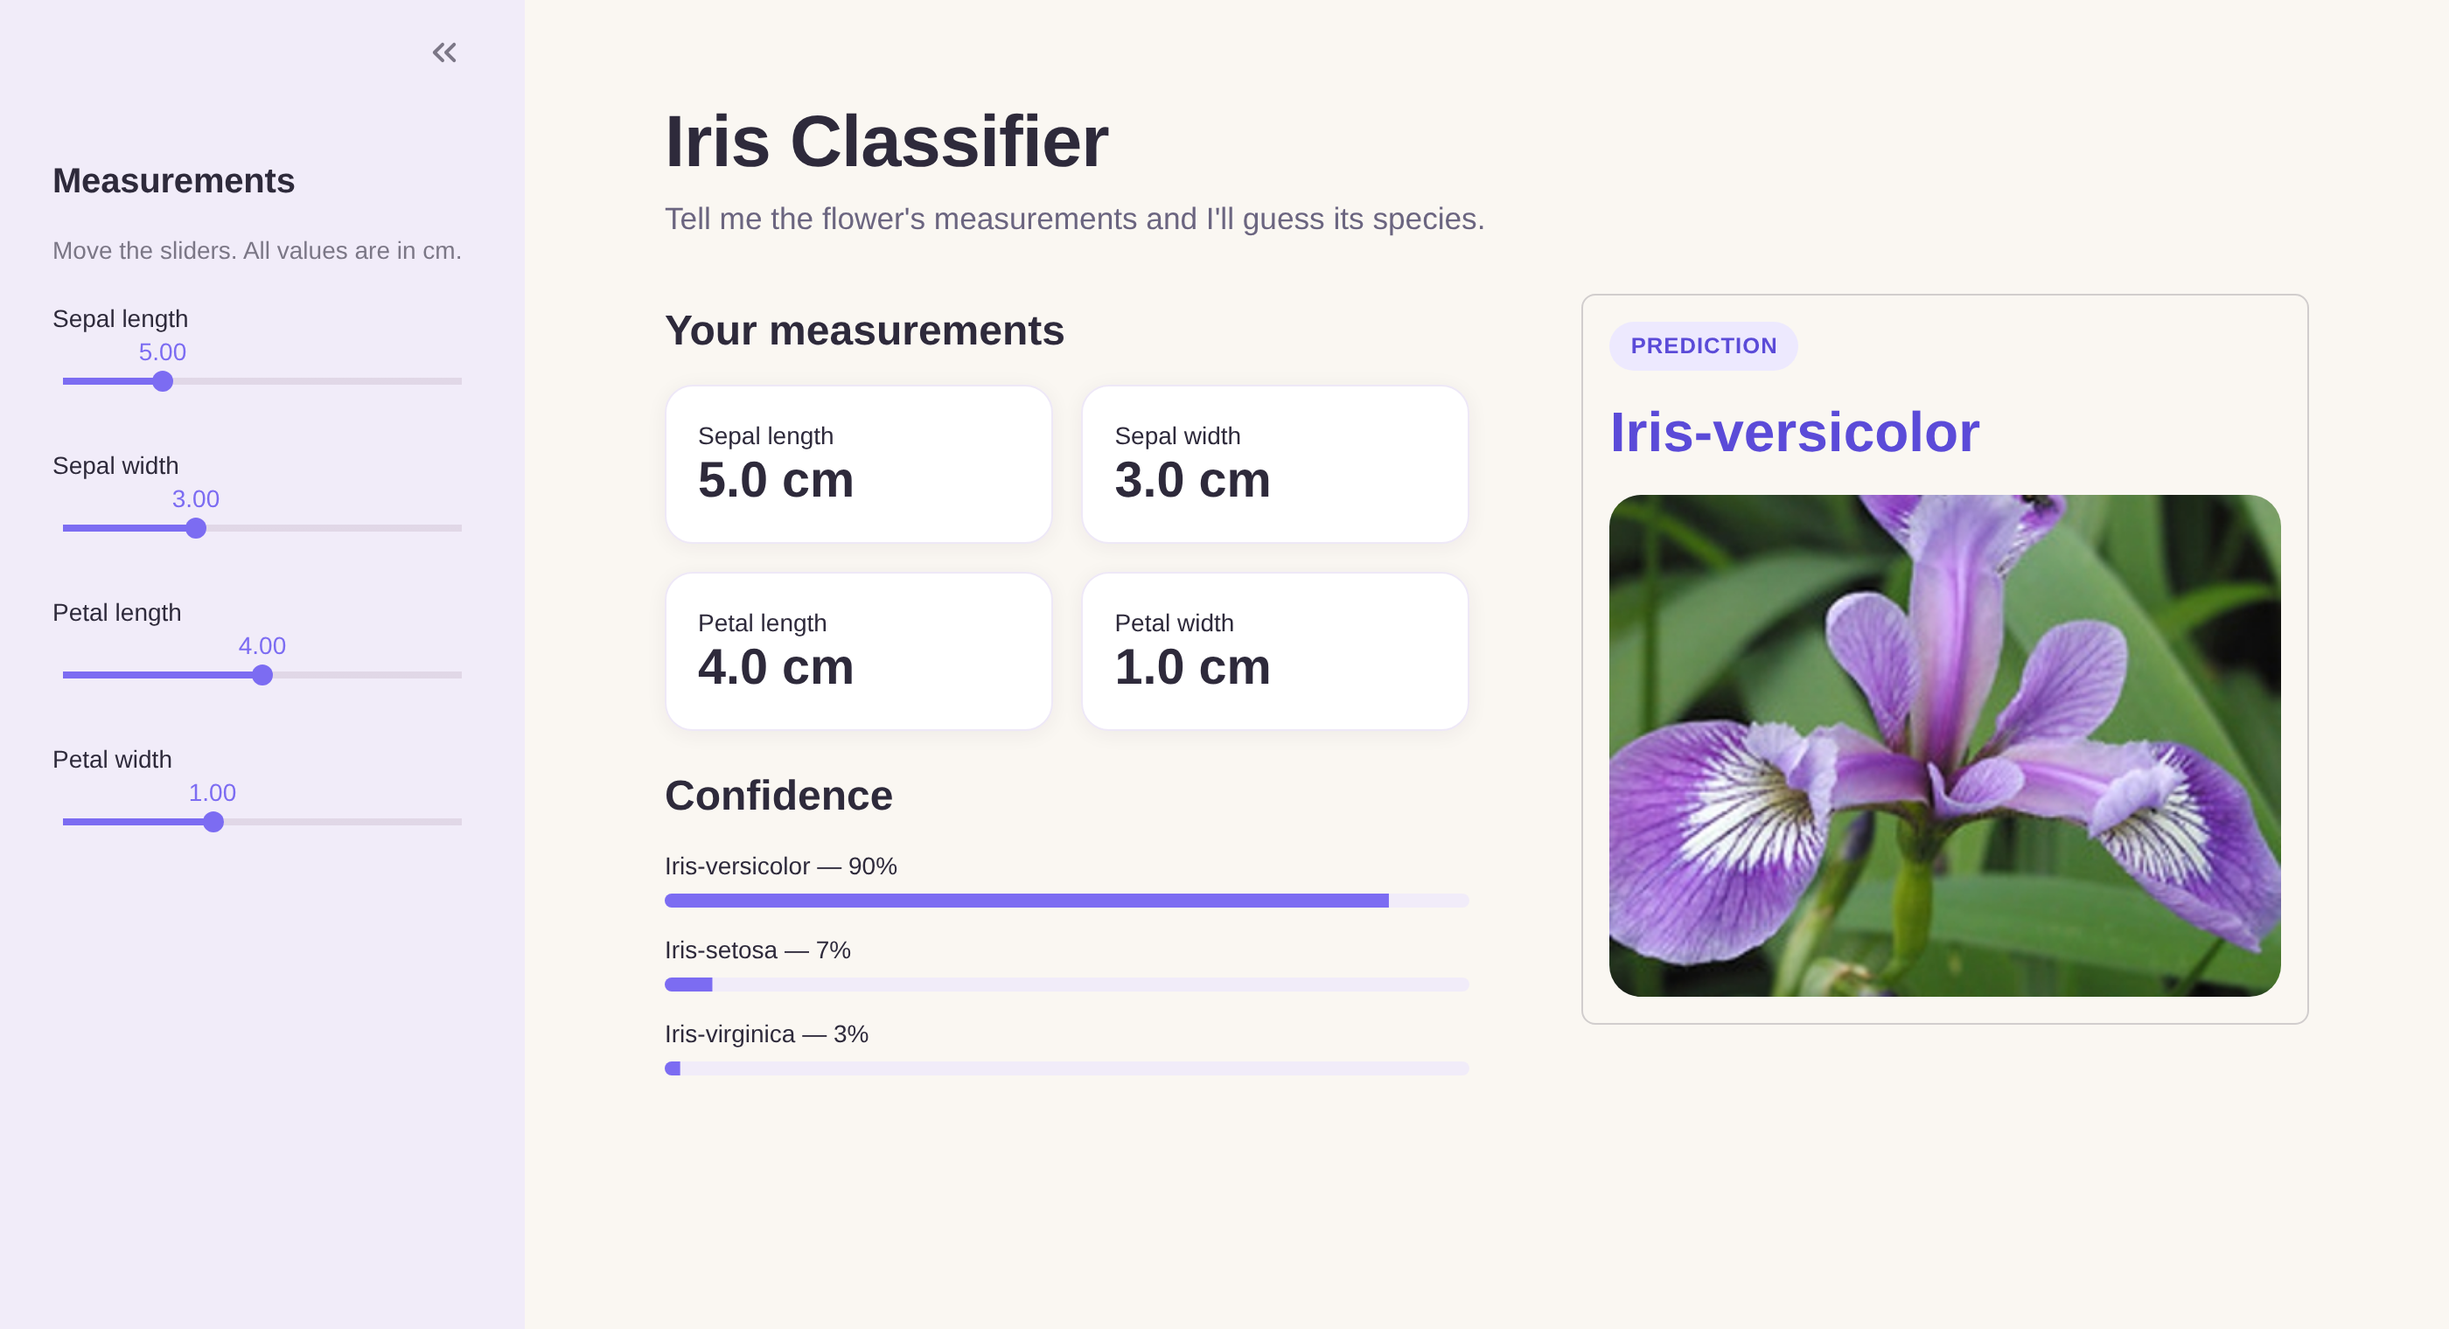
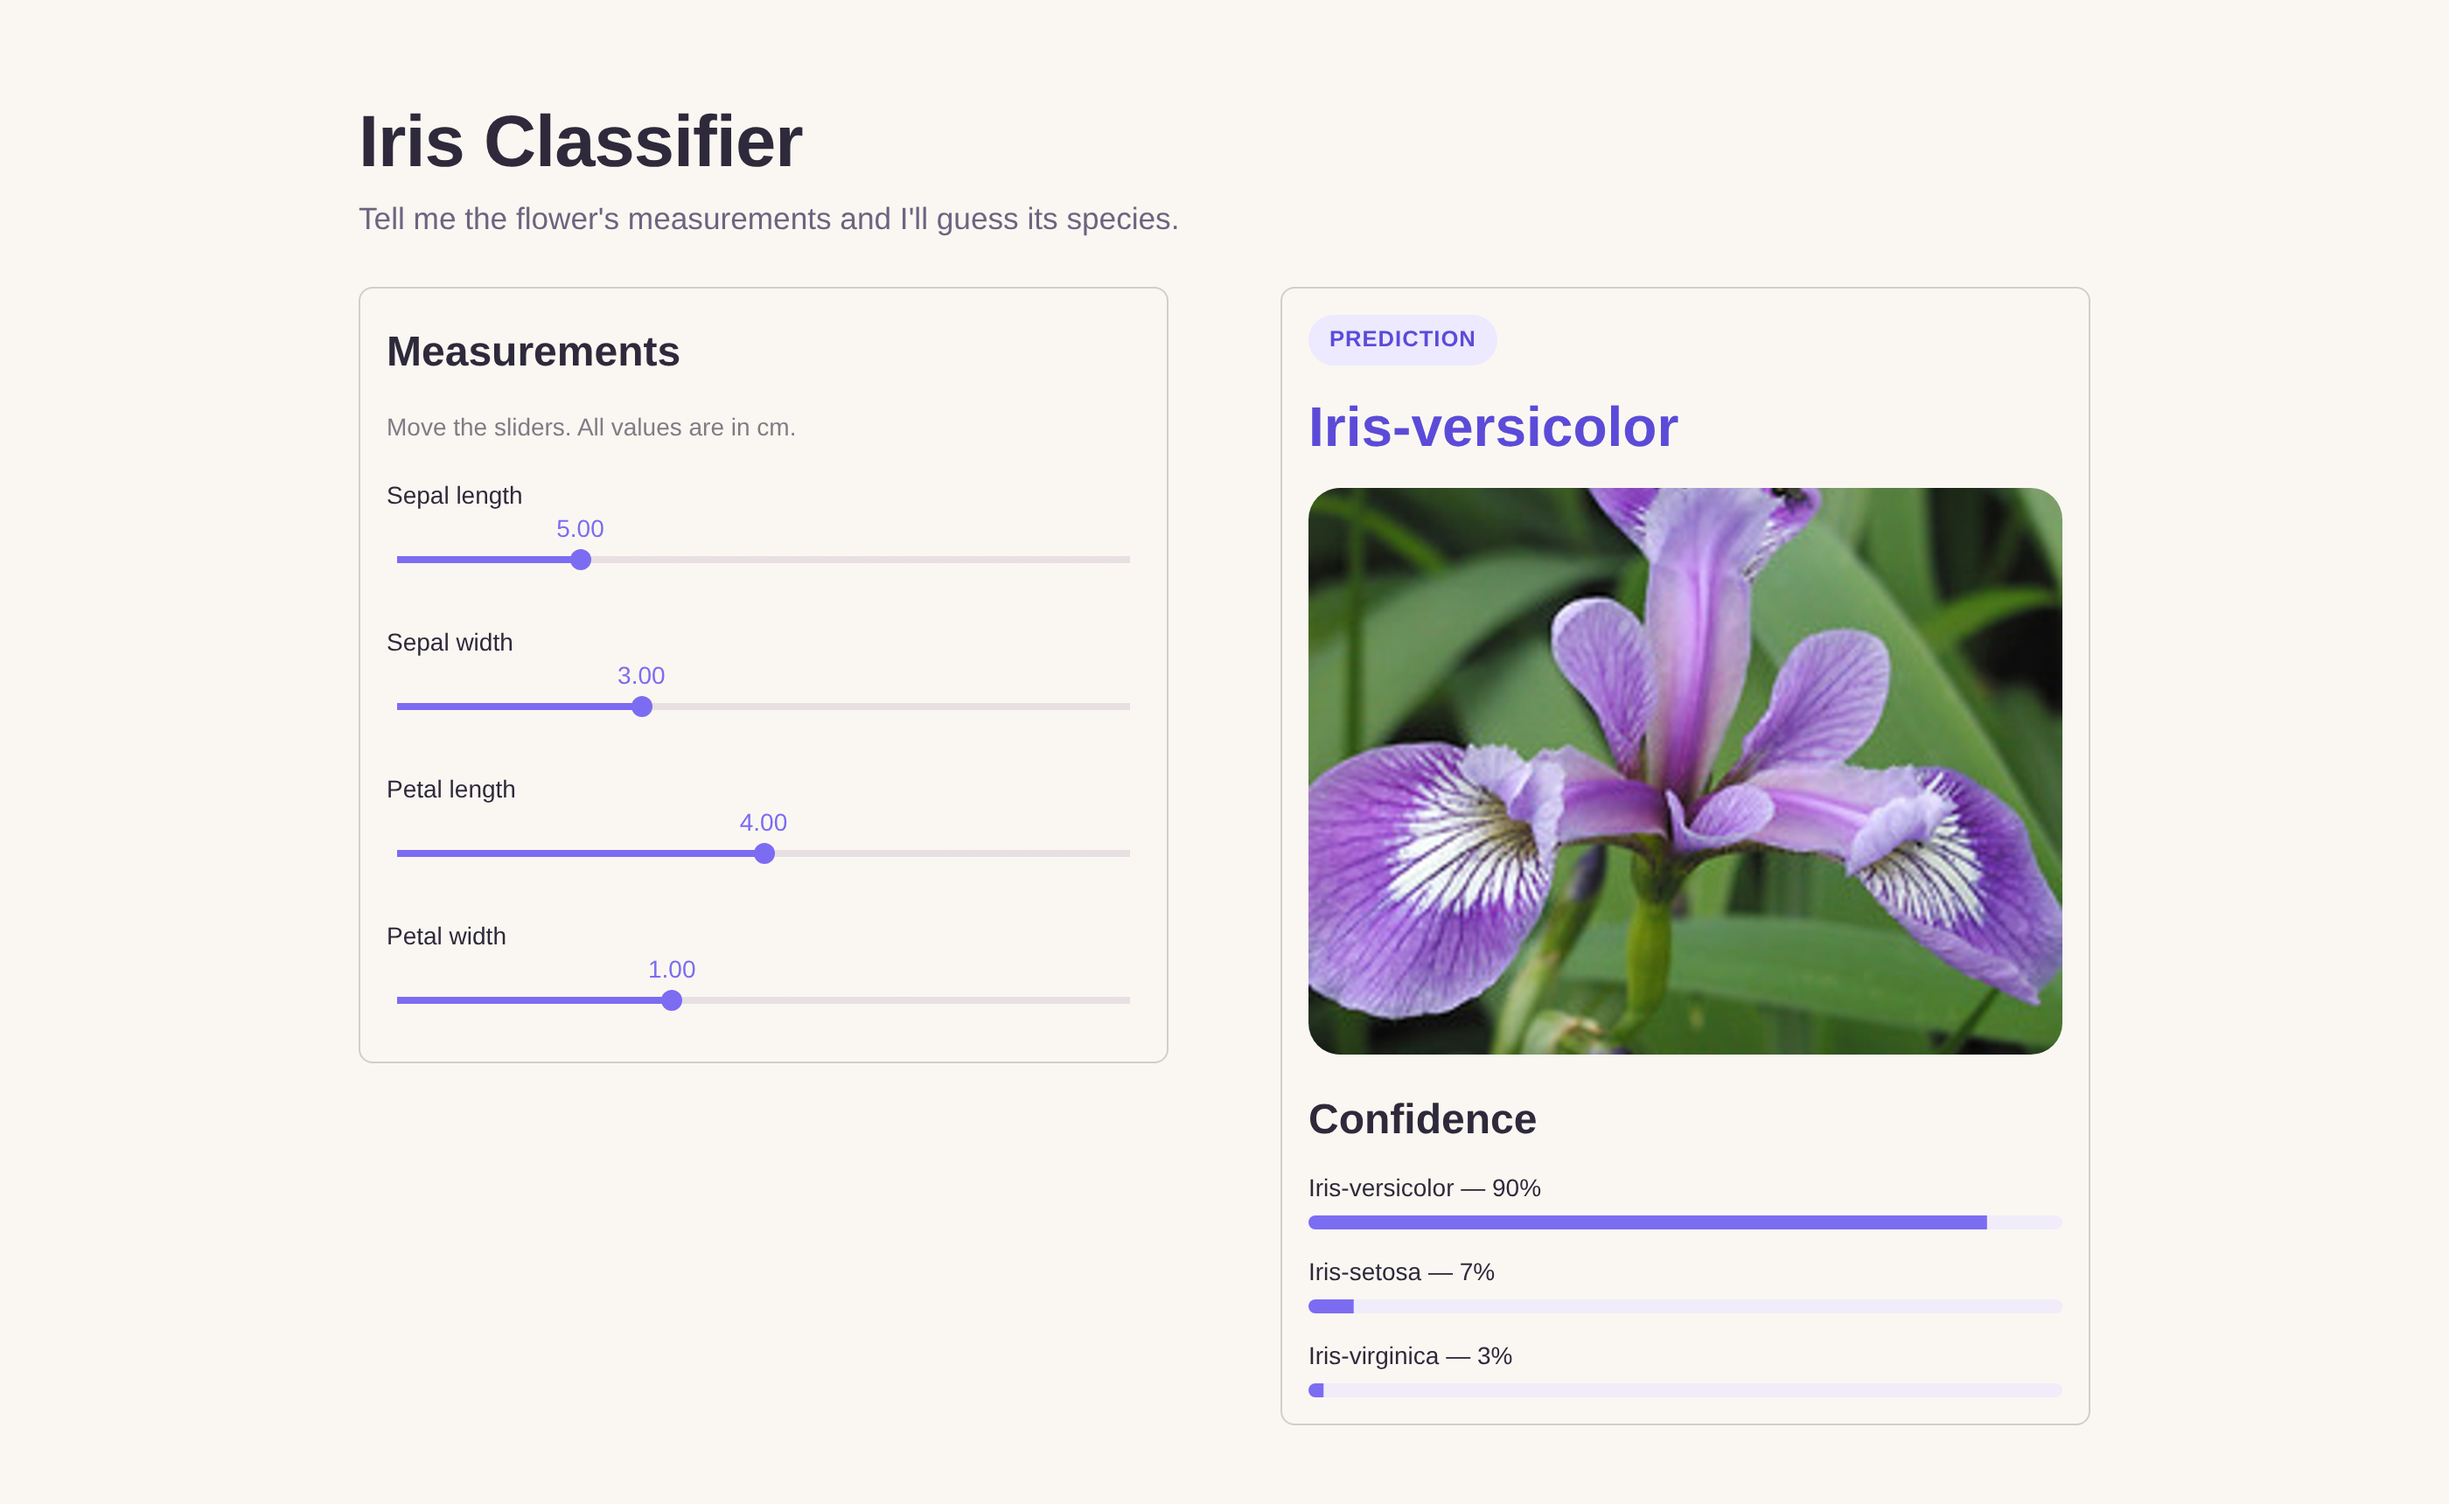
fix: move inputs out of sidebar so they work on mobile and tablet
Streamlit collapses the sidebar on narrow screens, hiding the sliders.
Inputs now live in an on-page card; columns stack on phones, the image
scales to its card, and media queries tune spacing and type size.

diff --git a/flowers.py b/flowers.py
@@ -14,7 +14,7 @@ IMAGES = {
     "Iris-versicolor": APP_DIR / "iris-versicolor.jpg",
     "Iris-virginica": APP_DIR / "Iris-virginica.jpg",
 }
-IMG_SIZE = (400, 300)
+IMG_SIZE = (800, 600)  # 4:3 crop; displayed at the card's width on every screen
 
 # ---------- Styling ----------
 st.markdown("""
@@ -27,17 +27,9 @@ html, body, .stApp, p, h1, h2, h3, h4, label, button, input {
 .block-container {padding-top: 2.5rem; max-width: 1150px;}
 
 .stMarkdown p.hero-title {font-size: 2.6rem !important; font-weight: 800; margin: 0; letter-spacing: -0.5px; line-height: 1.2;}
-.stMarkdown p.hero-sub {color: #6B6580; font-size: 1.1rem !important; margin: .3rem 0 1.8rem;}
+.stMarkdown p.hero-sub {color: #6B6580; font-size: 1.1rem !important; margin: .3rem 0 1.6rem;}
 
-[data-testid="stMetric"] {
-    background: #FFFFFF;
-    border-radius: 16px;
-    padding: 14px 18px;
-    border: 1px solid #EEE8F7;
-    box-shadow: 0 2px 12px rgba(46, 42, 59, 0.06);
-}
 [data-testid="stImage"] img {border-radius: 18px;}
-[data-testid="stMetricValue"] {font-size: 1.8rem; font-weight: 700;}
 
 .pill {
     display: inline-block; background: #EDE9FE; color: #5B4BD8;
@@ -45,6 +37,19 @@ html, body, .stApp, p, h1, h2, h3, h4, label, button, input {
     font-size: .8rem; font-weight: 700; letter-spacing: .5px;
 }
 .stMarkdown p.result-name {font-size: 2rem !important; font-weight: 800; color: #5B4BD8; margin: .4rem 0 1rem; line-height: 1.2;}
+
+/* ---------- Tablets ---------- */
+@media (max-width: 900px) {
+    .block-container {padding-left: 1.5rem; padding-right: 1.5rem;}
+    .stMarkdown p.hero-title {font-size: 2.2rem !important;}
+}
+/* ---------- Phones ---------- */
+@media (max-width: 640px) {
+    .block-container {padding: 3.75rem 1rem 2rem;}  /* top space clears the Streamlit toolbar */
+    .stMarkdown p.hero-title {font-size: 1.8rem !important;}
+    .stMarkdown p.hero-sub {font-size: 1rem !important; margin-bottom: 1rem;}
+    .stMarkdown p.result-name {font-size: 1.6rem !important;}
+}
 </style>
 """, unsafe_allow_html=True)
 
@@ -64,14 +69,25 @@ def to_label(p):
 
 model = load_model()
 
-# ---------- Sidebar ----------
-with st.sidebar:
-    st.markdown("## Measurements")
-    st.caption("Move the sliders. All values are in cm.")
-    sepal_length = st.slider("Sepal length", 4.0, 8.0, 5.0, 0.1)
-    sepal_width = st.slider("Sepal width", 2.0, 5.0, 3.0, 0.1)
-    petal_length = st.slider("Petal length", 1.0, 7.0, 4.0, 0.1)
-    petal_width = st.slider("Petal width", 0.1, 2.5, 1.0, 0.1)
+# ---------- Header ----------
+st.markdown('<p class="hero-title">Iris Classifier</p>', unsafe_allow_html=True)
+st.markdown('<p class="hero-sub">Tell me the flower\'s measurements and I\'ll guess its species.</p>',
+            unsafe_allow_html=True)
+
+# ---------- Layout ----------
+# Two columns side by side on desktop and tablet; Streamlit stacks them
+# automatically on phones (inputs first, then the result).
+left, right = st.columns([1, 1], gap="large")
+
+# ---------- Inputs (on the page, not in the sidebar, so they show on every device) ----------
+with left:
+    with st.container(border=True):
+        st.markdown("#### Measurements")
+        st.caption("Move the sliders. All values are in cm.")
+        sepal_length = st.slider("Sepal length", 4.0, 8.0, 5.0, 0.1)
+        sepal_width = st.slider("Sepal width", 2.0, 5.0, 3.0, 0.1)
+        petal_length = st.slider("Petal length", 1.0, 7.0, 4.0, 0.1)
+        petal_width = st.slider("Petal width", 0.1, 2.5, 1.0, 0.1)
 
 # ---------- Prediction (updates live) ----------
 data = [[sepal_length, sepal_width, petal_length, petal_width]]
@@ -83,34 +99,18 @@ if hasattr(model, "predict_proba"):
         key=lambda x: x[1], reverse=True,
     )
 
-# ---------- Header ----------
-st.markdown('<p class="hero-title">Iris Classifier</p>', unsafe_allow_html=True)
-st.markdown('<p class="hero-sub">Tell me the flower\'s measurements and I\'ll guess its species.</p>',
-            unsafe_allow_html=True)
-
-# ---------- Main layout ----------
-left, right = st.columns([1.1, 1], gap="large")
-
-with left:
-    st.markdown("#### Your measurements")
-    c1, c2 = st.columns(2)
-    c1.metric("Sepal length", f"{sepal_length:.1f} cm")
-    c2.metric("Sepal width", f"{sepal_width:.1f} cm")
-    c3, c4 = st.columns(2)
-    c3.metric("Petal length", f"{petal_length:.1f} cm")
-    c4.metric("Petal width", f"{petal_width:.1f} cm")
-
-    if probs:
-        st.markdown("#### Confidence")
-        for name, p in probs:
-            st.progress(float(p), text=f"{name} — {p:.0%}")
-
+# ---------- Result ----------
 with right:
     with st.container(border=True):
         st.markdown(f'<span class="pill">PREDICTION</span>'
                     f'<p class="result-name">{label}</p>', unsafe_allow_html=True)
         img_path = IMAGES.get(label)
         if img_path and img_path.exists():
-            st.image(load_image(str(img_path)))
+            st.image(load_image(str(img_path)), width="stretch")
         else:
             st.info(f"No image found for {label}")
+
+        if probs:
+            st.markdown("#### Confidence")
+            for name, p in probs:
+                st.progress(float(p), text=f"{name} — {p:.0%}")

diff --git a/README.md b/README.md
@@ -8,7 +8,8 @@ A Streamlit web app that predicts the species of an iris flower (setosa, versico
 
 ## Features
 
-- Sidebar sliders for sepal and petal length and width
+- Sliders for sepal and petal length and width
+- Responsive layout that works on desktop, tablet and phone
 - Live prediction that updates as you move the sliders
 - Confidence score for each species
 - Photo of the predicted species
